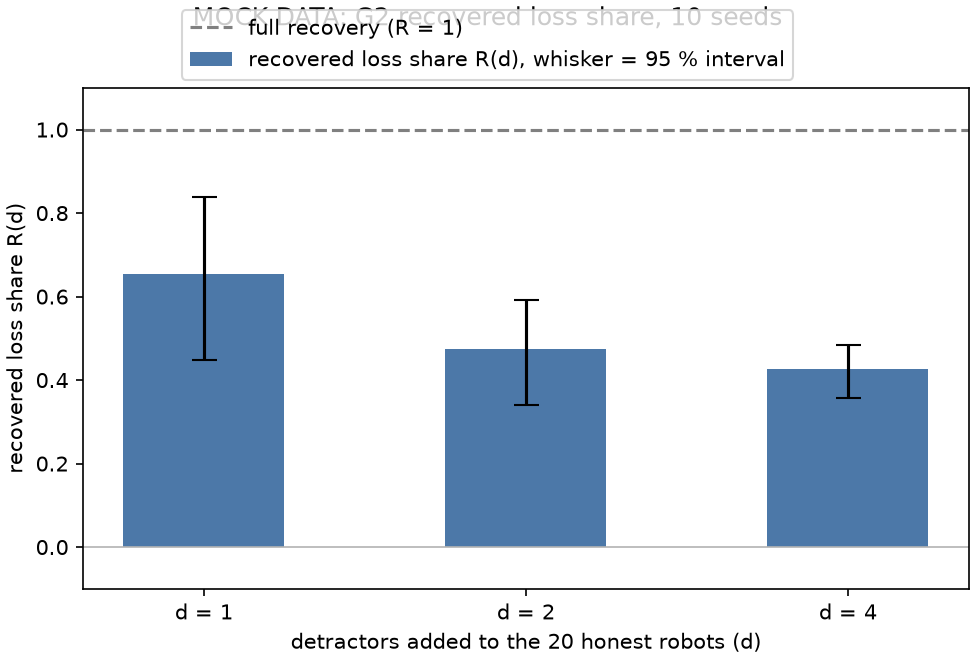
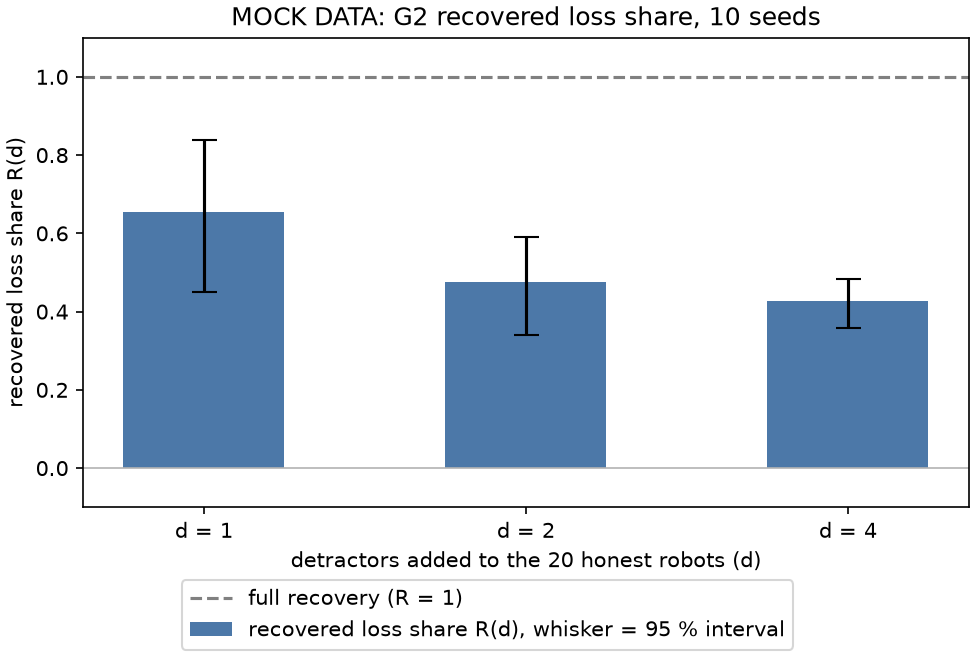
01_pheromone: M1 review fixes (legend, wait state, no hardcoded 80, out-side guard, loss resolution)

diff --git a/01_pheromone/results/mock/mvp1/generate.html b/01_pheromone/results/mock/mvp1/generate.html
@@ -15,6 +15,6 @@ a { color: inherit; }
 <body><div class="wrap">
 <p class="label">Stage report, step 1 of 3. <a href="index.html">Back to summary</a></p>
 <h1>Stage 1: generate mock runs</h1>
-<div class="panel"><table class="field"><tr><th>What</th><td>Write 80 MOCK runs (fake data) that follow the log schema.</td></tr><tr><th>Why</th><td>Milestone M1 shows the shape and the flow on mock data first. That serves goals G1 and G2 before any real pipeline exists.</td></tr><tr><th>Input data</th><td>No input data. Every value is generated (fake) by tools/make_mock_runs.py.</td></tr><tr><th>Output data</th><td>80 run folders under mock/runs/. 320 files, 71.7 MB.</td></tr><tr><th>Result (numbers)</th><td>Mean food_collected per cell runs from 31.3 to 59.0. Largest wasted_robot_seconds at d = 0: 0.0.</td></tr><tr><th>Result (good or bad)</th><td>Good: loss grows with d and defense wins part back. Wasted time is 0 at d = 0.</td></tr><tr><th>Status</th><td>ran (80 runs found)</td></tr></table></div>
+<div class="panel"><table class="field"><tr><th>What</th><td>Write 80 MOCK runs (fake data) that follow the log schema.</td></tr><tr><th>Why</th><td>Milestone M1 shows the shape and the flow on mock data first. That serves goals G1 and G2 before any real pipeline exists.</td></tr><tr><th>Input data</th><td>No input data. Every value is generated (fake) by tools/make_mock_runs.py.</td></tr><tr><th>Output data</th><td>80 run folders under mock/runs/. 320 files, 71.8 MB.</td></tr><tr><th>Result (numbers)</th><td>Mean food_collected per cell runs from 31.3 to 59.0. Largest wasted_robot_seconds at d = 0: 0.0.</td></tr><tr><th>Result (good or bad)</th><td>Good: loss grows with d and defense wins part back. Wasted time is 0 at d = 0.</td></tr><tr><th>Status</th><td>ran (80 runs found)</td></tr></table></div>
 <div class="panel fig"><p class="label">Figure and table</p><img src="generate_fig.png" alt="Mean food per cell, MOCK DATA"><div class="scroll-x"><table><thead><tr><th>d</th><th>defense</th><th>runs</th><th>mean food_collected</th><th>mean wasted_robot_seconds</th></tr></thead><tbody><tr><td>0</td><td>off</td><td>10</td><td>59.0</td><td>0.0</td></tr><tr><td>0</td><td>on</td><td>10</td><td>58.4</td><td>0.0</td></tr><tr><td>1</td><td>off</td><td>10</td><td>50.6</td><td>78.3</td></tr><tr><td>1</td><td>on</td><td>10</td><td>56.1</td><td>38.8</td></tr><tr><td>2</td><td>off</td><td>10</td><td>40.9</td><td>159.6</td></tr><tr><td>2</td><td>on</td><td>10</td><td>49.5</td><td>84.9</td></tr><tr><td>4</td><td>off</td><td>10</td><td>31.3</td><td>281.1</td></tr><tr><td>4</td><td>on</td><td>10</td><td>43.1</td><td>153.0</td></tr></tbody></table></div></div>
 </div></body></html>

diff --git a/01_pheromone/tools/report_html.py b/01_pheromone/tools/report_html.py
@@ -79,20 +79,24 @@ def stage_page(stage: Stage, step: int, total: int) -> str:
 
 def _pipeline_svg(stages: list[Stage]) -> str:
     """Boxes left to right: why a picture first, the flow is the point of MVP1."""
-    w, gap = 250, 60
-    parts = ['<svg viewBox="0 0 900 90" width="100%" role="img" aria-label="stage flow">',
+    gap = 60
+    per_row = len(stages) if len(stages) <= 4 else -(-len(stages) // 2)  # 8 stages: two rows of 4
+    w = (870 - (per_row - 1) * gap) // per_row  # 3 stages: 250, as before
+    rows = -(-len(stages) // per_row)
+    parts = [f'<svg viewBox="0 0 900 {90 + 80 * (rows - 1)}" width="100%" role="img" aria-label="stage flow">',
              '<defs><marker id="arr" markerWidth="8" markerHeight="8" refX="7" refY="4" '
              'orient="auto"><path d="M0,0 L8,4 L0,8 z" fill="currentColor"/></marker></defs>']
     for i, s in enumerate(stages):
-        x = 15 + i * (w + gap)
-        parts.append(f'<rect x="{x}" y="15" width="{w}" height="60" fill="var(--card)" '
+        x = 15 + (i % per_row) * (w + gap)
+        y = 80 * (i // per_row)  # 0 for a single row, so the 3-stage page is unchanged
+        parts.append(f'<rect x="{x}" y="{y + 15}" width="{w}" height="60" fill="var(--card)" '
                      f'stroke="var(--border)"/>')
-        parts.append(f'<text x="{x + 12}" y="40" style="fill:var(--foreground);font-size:14px">'
+        parts.append(f'<text x="{x + 12}" y="{y + 40}" style="fill:var(--foreground);font-size:14px">'
                      f'{i + 1}. {escape(s.key)}</text>')
         state = "skipped" if _is_skipped(s.status) else "ran"
-        parts.append(f'<text x="{x + 12}" y="60">status: {state}</text>')
-        if i < len(stages) - 1:
-            parts.append(f'<line x1="{x + w}" y1="45" x2="{x + w + gap - 4}" y2="45" '
+        parts.append(f'<text x="{x + 12}" y="{y + 60}">status: {state}</text>')
+        if i < len(stages) - 1 and (i + 1) % per_row != 0:
+            parts.append(f'<line x1="{x + w}" y1="{y + 45}" x2="{x + w + gap - 4}" y2="{y + 45}" '
                          f'stroke="currentColor" marker-end="url(#arr)"/>')
     parts.append("</svg>")
     return "".join(parts)

diff --git a/01_pheromone/tools/make_report.py b/01_pheromone/tools/make_report.py
@@ -1,6 +1,6 @@
 """Stage reports and the summary page from saved outputs only.
 
-Usage: make_report.py --phase mvp1
+Usage: make_report.py --phase mvp1 | mvp2   (mvp2 stages live in report_mvp2.py)
 Reads manifests, check_log.txt, analyze_log.txt, summary.csv and g2_stats.csv.
 No number is typed here. A stage with no saved output is reported as skipped and
 the script goes on.
@@ -91,9 +91,9 @@ def bar_figure(path: Path, title: str, labels: list[str], series: dict[str, list
     ax.set_xticks(range(len(labels)), labels)
     ax.set_xlabel(xlabel)
     ax.set_ylabel(ylabel)
-    fig.suptitle(title)
-    if len(series) > 1:
-        fig.legend(loc="outside upper center", ncol=len(series))
+    ax.set_title(title)
+    if len(series) > 1:  # legend below the axes, clear of the title
+        fig.legend(loc="outside lower center", ncol=len(series))
     fig.savefig(path, dpi=150)
     plt.close(fig)
 
@@ -110,7 +110,8 @@ def img(src: str, alt: str) -> str:
 
 
 def generate_stage() -> Stage:
-    what = "Write 80 MOCK runs (fake data) that follow the log schema."
+    n_cells = len(S.DETRACTOR_COUNTS) * len(S.DEFENSES) * len(S.SEEDS)
+    what = f"Write {n_cells} MOCK runs (fake data) that follow the log schema."
     why = ("Milestone M1 shows the shape and the flow on mock data first. "
            "That serves goals G1 and G2 before any real pipeline exists.")
     key, title = "generate", "Stage 1: generate mock runs"
@@ -228,8 +229,11 @@ def analyze_stage() -> Stage:
 
 def main(argv: list[str]) -> int:
     ap = argparse.ArgumentParser(description=__doc__.splitlines()[0])
-    ap.add_argument("--phase", required=True, choices=["mvp1"])
-    ap.parse_args(argv)
+    ap.add_argument("--phase", required=True, choices=["mvp1", "mvp2"])
+    args = ap.parse_args(argv)
+    if args.phase == "mvp2":
+        from report_mvp2 import run_phase  # late import: report_mvp2 uses helpers from this file
+        return run_phase()
     OUT.mkdir(parents=True, exist_ok=True)
     stages = [generate_stage(), check_stage(), analyze_stage()]
     for i, s in enumerate(stages, 1):

diff --git a/01_pheromone/tools/analyze.py b/01_pheromone/tools/analyze.py
@@ -42,6 +42,13 @@ def single_mock_flag(runs: list[dict]) -> bool:
     return flags.pop()
 
 
+def check_out_side(out: Path, mock: bool) -> None:
+    """Why: mock output must never land in results/real/, nor real output in results/mock/."""
+    wrong = "real" if mock else "mock"
+    if (PROJECT / "results" / wrong).resolve() in (out.resolve(), *out.resolve().parents):
+        raise SystemExit(f"stop: {S.COL_MOCK}={int(mock)} output may not go under results/{wrong}/")
+
+
 def select_cells(runs: list[dict]) -> dict:
     """Cell check: one complete run per cell. A duplicate keeps the latest complete run."""
     by_cell: dict[tuple, list[dict]] = defaultdict(list)
@@ -156,8 +163,9 @@ def draw_chart(path: Path, rows: list[G2Row], mock: bool) -> None:
     ax.set_ylabel("recovered loss share R(d)")
     n_seeds = max([r.n_seeds for r in shown] + [0])
     title = f"G2 recovered loss share, {n_seeds} seeds"
-    fig.suptitle(f"MOCK DATA: {title}" if mock else title)
-    fig.legend(loc="outside upper center", ncol=1)
+    ax.set_title(f"MOCK DATA: {title}" if mock else title)
+    # Legend below the axes: the title above stays readable (rules/figures.md, no overlap).
+    fig.legend(loc="outside lower center", ncol=1)
     fig.savefig(path, dpi=150)
     plt.close(fig)
 
@@ -174,6 +182,7 @@ def main(argv: list[str]) -> int:
         raise SystemExit(f"stop: no run manifest under {args.root}")
     mock = single_mock_flag(runs)  # mixing guard: stops before anything is written
     out = args.out or PROJECT / "results" / ("mock" if mock else "real")
+    check_out_side(out, mock)
     out.mkdir(parents=True, exist_ok=True)
     cells = select_cells(runs)
     rows = g2_rows(food_by_cell(cells["chosen"]), S.DETRACTOR_COUNTS)

diff --git a/01_pheromone/tools/g2_stats.py b/01_pheromone/tools/g2_stats.py
@@ -58,7 +58,7 @@ def _row(d: int, base: np.ndarray, off: np.ndarray, on: np.ndarray,
     loss_b = mean_b - mean_off
     loss = float(base.mean() - off.mean())
     l_lo, l_hi = _interval(loss_b)
-    if l_lo <= 0 <= l_hi:  # DESIGN 4.2: do not report R(d) when the loss may be 0
+    if not l_lo > 0:  # DESIGN 4.2: resolved only when the whole interval is above 0 (L > 0)
         return G2Row(d, n, float(off.mean()), float(on.mean()), loss, l_lo, l_hi,
                      gain, g_lo, g_hi, NAN, NAN, NAN, False, f"loss not resolved at {d}")
     with np.errstate(divide="ignore", invalid="ignore"):

diff --git a/01_pheromone/tools/schema.py b/01_pheromone/tools/schema.py
@@ -61,7 +61,8 @@ EVENT_NAMES = ("pickup", "drop", "follow_start", "peak", "suspect_add", "cone_ab
 
 ROLES = ("honest", "detractor")  # role prefixes hb_ and dt_ (DESIGN 2.1)
 STATES_HONEST = ("REST", "SEARCH", "FOLLOW", "END_SEARCH", "RETURN")
-STATES_DETRACTOR = ("REST", "GO_DECOY", "RETURN_LAY")
+# DESIGN 3.3: REST, GO_DECOY, wait 2 s at the decoy, RETURN_LAY. The wait gets its own name.
+STATES_DETRACTOR = ("REST", "GO_DECOY", "WAIT_DECOY", "RETURN_LAY")
 
 # manifest.json (DESIGN section 4). Tuples are the exact key sets.
 K_SCHEMA, K_MOCK, K_RUNID, K_PARAMS, K_LAYOUT, K_METRICS = (

diff --git a/01_pheromone/STATUS.md b/01_pheromone/STATUS.md
@@ -9,3 +9,5 @@
 2026-11-10 plan: PLAN.md created, M1 to M3, tasks M1-01 to M3-07 open (PLAN.md)
 2026-11-11 M1: mock end-to-end ran (80 runs, check 0 failed, G2 chart) (results/mock/mvp1/index.html)
 2026-11-11 decisions: D-013 local multi-seed runs, D-014 mock/runs ignored (DECISIONS.md)
+2026-11-11 M1: gate issues I-1..I-13 closed, gates re-run PASS (results/reviews/M1_gate.md, results/reviews/M1_evidence/)
+2026-11-11 M2: build clean, smoke run logs 4 files, check 0 failed, analyze lists 79 missing (runs/smoke, results/real/check_log.txt)
